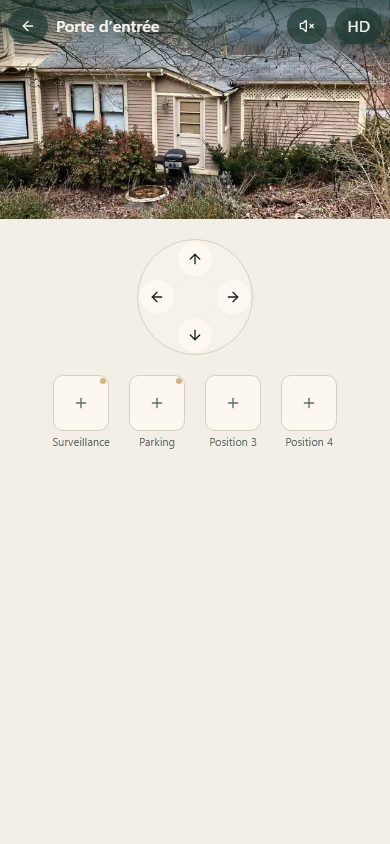
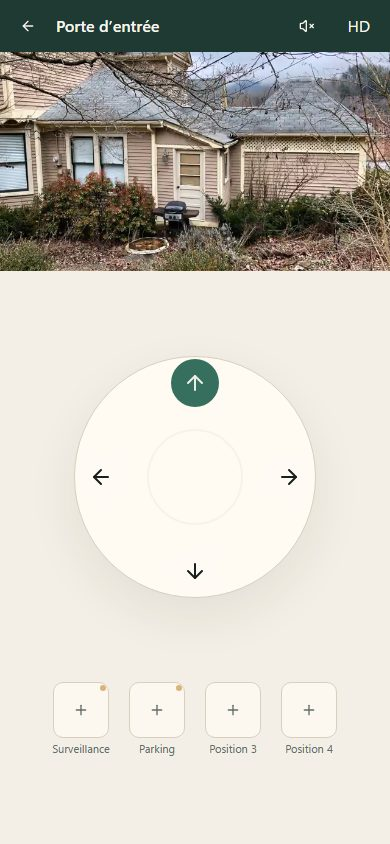
feat(live): dock the portrait bar above the video, as in Tapo
Owner feedback on #337. Held upright, the bar sits above the video, so
nothing covers the picture, and the joystick and positions take the
height left below it, the pad growing with it. The pad keeps main's
look: one disc with its four directions, now on its own card surface
since the panel card it sat on is gone.

diff --git a/src/dashboard/src/presentation/live_view/components/ptz_control_panel.tsx b/src/dashboard/src/presentation/live_view/components/ptz_control_panel.tsx
@@ -18,11 +18,24 @@ const BUSY: Record<PresetActivity, boolean> = { idle: false, saving: true, going
 /** Where each part sits: below or beside the picture, or laid over it in landscape (SPECS 7.2). */
 const PLACE: Record<
   LiveLayout,
-  { panel: string; joystick: string; positions: string; messages: string; tiles: string }
+  {
+    panel: string
+    joystick: string
+    pad: string
+    button: string
+    icon: string
+    positions: string
+    messages: string
+    tiles: string
+  }
 > = {
+  // The pad grows with the room below the picture.
   portrait: {
-    panel: 'flex flex-col items-center gap-5',
+    panel: 'flex flex-1 flex-col items-center justify-evenly gap-5',
     joystick: '',
+    pad: 'size-[min(62vw,16rem)]',
+    button: 'size-12',
+    icon: 'size-6',
     positions: 'flex w-full flex-col items-center gap-2',
     messages: 'flex flex-col items-center gap-2',
     tiles: 'flex max-w-full gap-3 overflow-x-auto px-1 pb-1',
@@ -30,7 +43,10 @@ const PLACE: Record<
   landscape: {
     panel: 'pointer-events-none absolute inset-0',
     joystick:
-      'pointer-events-auto absolute top-1/2 right-[max(1rem,env(safe-area-inset-right))] -translate-y-1/2 rounded-full bg-card/60 p-1',
+      'pointer-events-auto absolute top-1/2 right-[max(1rem,env(safe-area-inset-right))] -translate-y-1/2',
+    pad: 'size-[116px]',
+    button: 'size-[34px]',
+    icon: 'size-4',
     positions:
       'absolute bottom-[max(0.5rem,env(safe-area-inset-bottom))] left-1/2 flex max-w-[calc(100%-18rem)] -translate-x-1/2 flex-col items-center gap-2',
     messages: 'pointer-events-auto flex flex-col gap-2 rounded-card bg-card p-2',
@@ -39,6 +55,9 @@ const PLACE: Record<
   wide: {
     panel: 'flex flex-col items-center gap-6',
     joystick: '',
+    pad: 'size-40',
+    button: 'size-10',
+    icon: 'size-5',
     positions: 'flex w-full flex-col items-center gap-2',
     messages: 'flex flex-col items-center gap-2',
     tiles: 'flex flex-wrap justify-center gap-3',
@@ -246,7 +265,6 @@ export function PtzControlPanel({
     onTouchCancel: onRelease,
   })
 
-  const buttonSize = 'size-[34px]'
   const overridePreset =
     uido.overridePresetId !== null
       ? presets?.find((p) => p.presetId === uido.overridePresetId)
@@ -259,22 +277,28 @@ export function PtzControlPanel({
   return (
     <div className={place.panel}>
       <div {...fade} className={cn(place.joystick, fade.className)}>
-        <div className="relative size-[116px] shrink-0 rounded-full border border-border bg-muted/40">
+        {/* One pad, as on a card: its own surface keeps the four directions one control on any background. */}
+        <div
+          className={cn(
+            'relative shrink-0 rounded-full border border-border bg-card shadow-[var(--shadow-soft)]',
+            place.pad,
+          )}
+        >
           <div
             className="absolute inset-[30%] rounded-full border-2 border-background/70"
             aria-hidden="true"
           />
-          <DirButton buttonSize={buttonSize} edge="Up" title="Haut" {...dir('Up')}>
-            <ArrowUp className="size-4" aria-hidden="true" />
+          <DirButton buttonSize={place.button} edge="Up" title="Haut" {...dir('Up')}>
+            <ArrowUp className={place.icon} aria-hidden="true" />
           </DirButton>
-          <DirButton buttonSize={buttonSize} edge="Left" title="Gauche" {...dir('Left')}>
-            <ArrowLeft className="size-4" aria-hidden="true" />
+          <DirButton buttonSize={place.button} edge="Left" title="Gauche" {...dir('Left')}>
+            <ArrowLeft className={place.icon} aria-hidden="true" />
           </DirButton>
-          <DirButton buttonSize={buttonSize} edge="Right" title="Droite" {...dir('Right')}>
-            <ArrowRight className="size-4" aria-hidden="true" />
+          <DirButton buttonSize={place.button} edge="Right" title="Droite" {...dir('Right')}>
+            <ArrowRight className={place.icon} aria-hidden="true" />
           </DirButton>
-          <DirButton buttonSize={buttonSize} edge="Down" title="Bas" {...dir('Down')}>
-            <ArrowDown className="size-4" aria-hidden="true" />
+          <DirButton buttonSize={place.button} edge="Down" title="Bas" {...dir('Down')}>
+            <ArrowDown className={place.icon} aria-hidden="true" />
           </DirButton>
         </div>
       </div>

diff --git a/src/dashboard/src/presentation/live_view/live_view.component.tsx b/src/dashboard/src/presentation/live_view/live_view.component.tsx
@@ -16,7 +16,7 @@ import { buildLiveViewPresenter } from './live_view.presenter'
 import { liveViewReducer } from './live_view.reducer'
 import { buildInitialLiveViewUido } from './live_view.uido'
 import { LiveAccess, liveAccessOf } from './live_access'
-import { LiveLayout, useLiveLayout } from './live_layout'
+import { BAR_ABOVE, LiveLayout, useLiveLayout } from './live_layout'
 import { useAutoHide } from './use_auto_hide'
 import { useFullScreen } from './use_full_screen'
 import { useViewportFitCover } from './use_viewport_fit_cover'
@@ -32,10 +32,11 @@ import type { LiveQuality } from '../../domain/entities/camera.entity'
 const SCREEN = 'fixed inset-x-0 top-0 z-40 h-dvh'
 
 const LAYOUT: Record<LiveLayout, { screen: string; picture: string; controls: string }> = {
+  // The controls take the height the picture leaves, rather than an empty band at the bottom.
   portrait: {
     screen: 'flex flex-col overflow-y-auto bg-background',
-    picture: 'relative aspect-video w-full shrink-0',
-    controls: 'px-4 pt-5 pb-[max(1.25rem,env(safe-area-inset-bottom))]',
+    picture: 'w-full shrink-0',
+    controls: 'flex flex-1 flex-col px-4 pt-5 pb-[max(1.25rem,env(safe-area-inset-bottom))]',
   },
   // The controls place themselves over the picture.
   landscape: {
@@ -261,6 +262,7 @@ export function LiveView({
             <LiveTopBar
               label={label}
               shown={controls.shown}
+              above={BAR_ABOVE[layout]}
               onBack={back}
               onFullScreen={fullScreen.offered ? fullScreen.enter : undefined}
             >

diff --git a/src/dashboard/src/presentation/live_view/components/live_video.tsx b/src/dashboard/src/presentation/live_view/components/live_video.tsx
@@ -9,7 +9,7 @@ import { LiveQuality } from '../../../domain/entities/camera.entity'
 import type { LiveFailure, LivePlayback } from '../../../domain/entities/live_playback.entity'
 import type { FrigateStatus } from '../../../domain/entities/system_stats.entity'
 import { CAMERA_REMOVED, PRIVACY_STOPS_LIVE } from '../live_view.formatters'
-import type { LiveLayout } from '../live_layout'
+import { BAR_ABOVE, type LiveLayout } from '../live_layout'
 import { LiveImage } from './live_image'
 import { LIVE_CONTROL } from './live_control'
 
@@ -218,8 +218,8 @@ export function LiveVideo({
   const shown = failed && FAILURES[failed.failure]
   const playing = PLAYING[playback.kind]
 
-  return (
-    <div className="relative size-full overflow-hidden bg-surface-inverse">
+  const media = (
+    <>
       <video
         ref={videoRef}
         aria-label={label}
@@ -257,6 +257,17 @@ export function LiveVideo({
           </div>
         </>
       )}
+    </>
+  )
+
+  return BAR_ABOVE[layout] ? (
+    <div className="flex flex-col">
+      {bar(controls)}
+      <div className="relative aspect-video w-full overflow-hidden bg-surface-inverse">{media}</div>
+    </div>
+  ) : (
+    <div className="relative size-full overflow-hidden bg-surface-inverse">
+      {media}
       {bar(controls)}
     </div>
   )

diff --git a/src/dashboard/src/presentation/live_view/components/live_top_bar.tsx b/src/dashboard/src/presentation/live_view/components/live_top_bar.tsx
@@ -7,12 +7,15 @@ import { fading, LIVE_CONTROL } from './live_control'
 export function LiveTopBar({
   label,
   shown,
+  above = false,
   onBack,
   onFullScreen,
   children,
 }: {
   label: string
   shown: boolean
+  /** Above the picture rather than over it: a solid strip, nothing faded. */
+  above?: boolean
   onBack: () => void
   /** Given only while the browser can still be asked to hide its bars. */
   onFullScreen?: () => void
@@ -24,7 +27,10 @@ export function LiveTopBar({
     <div
       {...fade}
       className={cn(
-        'absolute inset-x-0 top-0 flex items-center gap-2 bg-linear-to-b from-surface-inverse/80 to-transparent pt-[max(0.5rem,env(safe-area-inset-top))] pr-[max(0.5rem,env(safe-area-inset-right))] pb-6 pl-[max(0.5rem,env(safe-area-inset-left))] text-surface-inverse-foreground',
+        'flex items-center gap-2 pt-[max(0.5rem,env(safe-area-inset-top))] pr-[max(0.5rem,env(safe-area-inset-right))] pl-[max(0.5rem,env(safe-area-inset-left))] text-surface-inverse-foreground',
+        above
+          ? 'bg-surface-inverse pb-2'
+          : 'absolute inset-x-0 top-0 bg-linear-to-b from-surface-inverse/80 to-transparent pb-6',
         fade.className,
       )}
     >

diff --git a/src/dashboard/tests/e2e/ui_defauts.e2e.ts b/src/dashboard/tests/e2e/ui_defauts.e2e.ts
@@ -49,6 +49,19 @@ test.describe('LiveView', () => {
     await expect(page).toHaveURL('/')
   })
 
+  test('LiveView_ShouldPutTheBarAboveThePicture_WhenThePhoneIsHeldUpright', async ({ page }) => {
+    await page.setViewportSize({ width: 390, height: 844 })
+    const camera = makeFakeCamera({ id: 'camera-1', displayName: 'Salon' })
+    await installFakeBackend(page, createFakeBackendState({ cameras: [camera] }))
+
+    await page.goto('/cameras/camera-1/direct')
+    const back = await page.getByRole('button', { name: 'Retour' }).boundingBox()
+    const picture = await page.locator('video[aria-label="Salon"]').boundingBox()
+
+    expect(back!.y + back!.height).toBeLessThanOrEqual(picture!.y)
+    expect(picture!.width).toBe(390)
+  })
+
   test('LiveView_ShouldGoBackHome_WhenTheBrowserGoesBack', async ({ page }) => {
     const camera = makeFakeCamera({ id: 'camera-1', displayName: 'Salon' })
     await installFakeBackend(page, createFakeBackendState({ cameras: [camera] }))

diff --git a/src/dashboard/src/presentation/live_view/live_view.integration.test.tsx b/src/dashboard/src/presentation/live_view/live_view.integration.test.tsx
@@ -1167,6 +1167,26 @@ describe('LiveView layouts', () => {
     expect(screen.getByRole('button', { name: 'Retour' })).toBeInTheDocument()
   })
 
+  it.each([
+    { layout: 'portrait' as const, over: false },
+    { layout: 'landscape' as const, over: true },
+    { layout: 'wide' as const, over: true },
+  ])(
+    'LiveView_ShouldLayTheBarOverThePictureOnlyWhenItFillsTheScreen_WhenHeld $layout',
+    ({ layout, over }) => {
+      // Arrange
+      holdTheDevice(layout)
+      fakeNetwork({})
+
+      // Act
+      renderOn()
+
+      // Assert
+      const picture = screen.getByLabelText('Front Door', { selector: 'video' }).parentElement
+      expect(picture?.contains(screen.getByRole('button', { name: 'Retour' }))).toBe(over)
+    },
+  )
+
   it('LiveView_ShouldKeepItsControls_WhenHeldUpright', () => {
     // Arrange
     vi.useFakeTimers()

diff --git a/src/dashboard/src/presentation/live_view/live_layout.ts b/src/dashboard/src/presentation/live_view/live_layout.ts
@@ -30,6 +30,13 @@ function subscribe(onChange: () => void) {
   return () => queries.forEach((query) => query.removeEventListener('change', onChange))
 }
 
+/** Held upright, the bar sits above the picture and never covers it (SPECS 7.2). */
+export const BAR_ABOVE: Record<LiveLayout, boolean> = {
+  portrait: true,
+  landscape: false,
+  wide: false,
+}
+
 /** Follows the device as it turns. */
 export function useLiveLayout(): LiveLayout {
   return useSyncExternalStore(subscribe, currentLayout)
